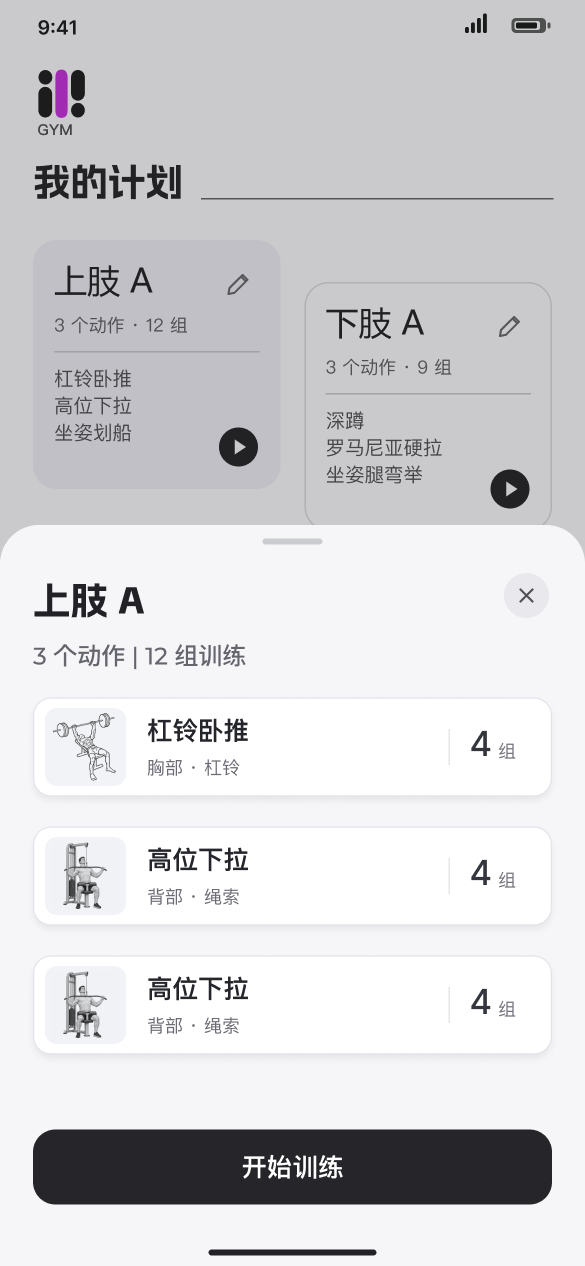
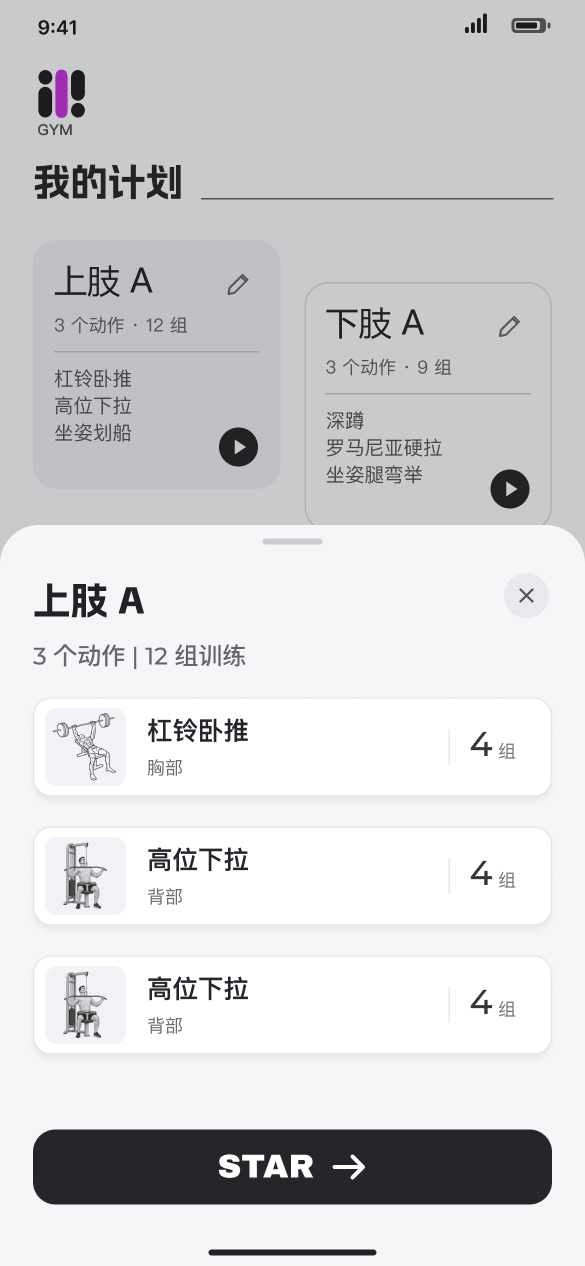
为开练按钮配右箭头并更新预览

diff --git a/docs/设计日志/健身/新窗口交接.md b/docs/设计日志/健身/新窗口交接.md
@@ -4,7 +4,7 @@
 
 ## 本轮工作
 
-用户已确认手机端画板「开始计划」（29:14565）为开练前预览的结构基准。其左侧「开始计划 · 动作卡细化」（31:14877）仅供新一轮视觉评审。[卡片细化预览](预览/手机网页/31-14877.png)。待统一剩余修改后再改代码；线上 1.11.6 仍为点计划直接开始。
+用户已确认手机端画板「开始计划」（29:14565）为开练前预览的结构基准。其左侧「开始计划 · 动作卡细化」（31:14877）供本轮视觉评审，底部 STAR 按钮已配右箭头。[卡片细化预览](预览/手机网页/31-14877.png)。待统一剩余修改后再改代码；线上 1.11.6 仍为点计划直接开始。
 
 1.11.6 已上线健身手机 Web App 桌面图标，源自 Figma EX 首页组件 18:7582。安装名称为「在侧健身」，启动目标指定手机训练页。
 

diff --git a/docs/设计日志/健身/设计日志.md b/docs/设计日志/健身/设计日志.md
@@ -150,3 +150,7 @@
 ## 2026-11-12-09｜开始计划定稿旁的卡片层次评审
 
 用户确认「开始计划」画板为结构基准，暂缓代码修改。本轮在该画板左侧另做「开始计划 · 动作卡细化」。沿用定稿的动作名称、插图和每项 4 组的样例。卡片使用白底、细描边和浅投影；缩略图带独立冷灰底，文字分为动作名与部位／器械，右侧对齐组数。旁版样例合计随三张卡校正为 12 组。已核对位置、三张可编辑卡及整屏导出。该卡片处理待评审。
+
+## 2026-11-12-10｜开练按钮箭头
+
+在用户微调后的动作卡细化画板（31:14877）内，为现有 STAR 标签添加白色圆头右箭头。文字和箭头按一个整体在按钮内居中，已回看按钮并更新整屏预览。
